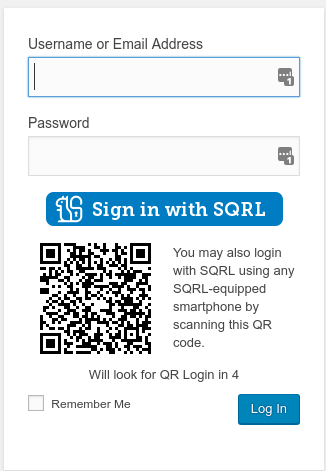
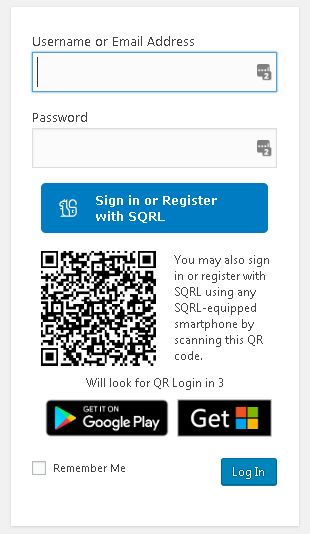
Preparing for release 0.6.3

diff --git a/style.css b/style.css
@@ -29,7 +29,7 @@
 .sqrl-button {
     display: flex;
     flex-direction: row;
-    justify-content: left;
+    justify-content: flex-start;
     align-items: center;
     background: #007CC3;
     border-radius: 5px;

diff --git a/sqrl-login.php b/sqrl-login.php
@@ -2,7 +2,7 @@
 /**
  * Plugin Name:       SQRL Login
  * Description:       Login and Register your users using SQRL
- * Version:           0.6.2
+ * Version:           0.6.3
  * Author:            Daniel Persson
  * Author URI:        http://danielpersson.dev
  * Text Domain:       sqrl
@@ -11,7 +11,7 @@
  * GitHub Plugin URI: http://github.com/kalaspuffar/wordpress-sqrl
  */
 
-class SQRLLogin{
+class SQRLLogin {
 
     const CURRENT_ID_MATCH = 1;
     const PREVIOUS_ID_MATCH = 2;
@@ -22,6 +22,12 @@ class SQRLLogin{
     const COMMAND_FAILED = 64;
     const CLIENT_FAILURE = 128;
     const BAD_ID_ASSOCIATION = 256;
+
+	/**
+	 * Change messages
+	 */
+    const MESSAGE_DISABLED = '1';
+    const MESSAGE_REMOVED = '2';
 
     /**
      * SQRLLogin constructor.
@@ -34,6 +40,8 @@ class SQRLLogin{
 
 		add_action( 'admin_post_sqrl_login', array($this, 'loginCallback'));
         add_action( 'admin_post_nopriv_sqrl_login', array($this, 'loginCallback'));
+		add_action( 'admin_post_sqrl_logout', array($this, 'logoutCallback'));
+        add_action( 'admin_post_nopriv_sqrl_logout', array($this, 'logoutCallback'));
         add_action( 'admin_post_sqrl_auth', array($this, 'apiCallback'));
         add_action( 'admin_post_nopriv_sqrl_auth', array($this, 'apiCallback'));
 
@@ -45,14 +53,14 @@ class SQRLLogin{
 
 		add_action( 'admin_post_sqrl_disassociate', array($this, 'disAssociateUser') );
 
-		add_action( 'login_enqueue_scripts', array($this, 'enqueue_scripts') );
-        add_action( 'admin_enqueue_scripts', array($this, 'enqueue_scripts') );
+		add_action( 'login_enqueue_scripts', array($this, 'enqueueScripts') );
+        add_action( 'admin_enqueue_scripts', array($this, 'enqueueScripts') );
 
-        add_action( 'wp_login', array($this, 'user_login'), 10, 2 );
-        add_filter( 'login_message', array($this, 'user_login_message') );
+        add_action( 'wp_login', array($this, 'userLogin'), 10, 2 );
+        add_filter( 'login_message', array($this, 'userLoginMessage') );
 	}
 
-	public function enqueue_scripts() {
+	public function enqueueScripts() {
 		wp_enqueue_style('style', plugin_dir_url(__FILE__).'style.css');
 	}
 
@@ -82,7 +90,7 @@ class SQRLLogin{
  								    <img src="<?php echo plugins_url( 'images/disconnect.svg', __FILE__ ) ?>"/>
                                 	<div><?php echo $disassociate_button ?></div>
                             	</a>
-							</div>								
+							</div>
 							<?php $this->addToLoginForm($user, true); ?>
 						</div>
 					</td>
@@ -170,9 +178,12 @@ class SQRLLogin{
 
 		if ($associated) {
             $button_label = __('Change your account', 'sqrl');
-            $qrcode_label = __('Scan QR code or click button to change account. Using your client you can disable, enable and remove the account.', 'sqrl');			
-        }
-        
+            $qrcode_label = __('Scan QR code or click button to change account. Using your client you can disable, enable and remove the account.', 'sqrl');
+        } else if ($user) {
+            $button_label = __('Associate with account', 'sqrl');
+            $qrcode_label = __('Scan QR code or click button to associate to this account.', 'sqrl');
+		}
+
 		$adminPostPath = parse_url(admin_url('admin-post.php'), PHP_URL_PATH);
 
 		$siteUrl = explode("://", get_site_url());
@@ -219,10 +230,10 @@ class SQRLLogin{
         ?>
 		<div class="sqrl-login-wrapper">
 			<div class="sqrl-login-row">
-                <a id="sqrl" 
-				   class="sqrl-button" 
-				   href="<?php echo $sqrlURL ?>" onclick="sqrlLinkClick(this);return true;" 
-				   encoded-sqrl-url="<?php echo $this->base64url_encode($sqrlURL) ?>" 
+                <a id="sqrl"
+				   class="sqrl-button"
+				   href="<?php echo $sqrlURL ?>" onclick="sqrlLinkClick(this);return true;"
+				   encoded-sqrl-url="<?php echo $this->base64url_encode($sqrlURL) ?>"
 				   tabindex="-1"
 				>
 				  <img src="<?php echo plugins_url( 'images/sqrl_outline.svg', __FILE__ ) ?>"/>
@@ -265,6 +276,22 @@ class SQRLLogin{
 		}
 	}
 
+    public function logoutCallback() {
+		$messageKey = sanitize_text_field($_GET['message']);
+		$this->logoutWithMessage($messageKey);
+    }
+
+	public function logoutWithMessage($messageKey) {
+		// Clear cookies, a.k.a log user out
+		wp_clear_auth_cookie();
+		// Build login URL and then redirect
+		$login_url = site_url( 'wp-login.php', 'login' );
+
+		$login_url = add_query_arg( 'message', $messageKey, $login_url );
+		wp_redirect( $login_url );
+		exit;
+	}
+
 	public function loginCallback() {
 
 		// Validate session value
@@ -290,15 +317,22 @@ class SQRLLogin{
 			'fields'       => 'id',
 		));
 
+		if (empty($wp_users)) {
+			$this->logoutWithMessage(self::MESSAGE_REMOVED);
+		}
+
 		delete_user_meta( $wp_users[0], 'sqrl_session');
 		wp_set_auth_cookie( $wp_users[0] );
 
-		if (!empty($_GET['existingUser'])) {
+		$disabled = get_user_meta( $wp_users[0], 'sqrl_disable_user', true);
+		if ($disabled) {
+			$this->logoutWithMessage(self::MESSAGE_DISABLED);
+		} else if (!empty($_GET['existingUser'])) {
 			header("Location: " . admin_url('profile.php'), true);
 		} else {
 			header("Location: " . get_site_url(), true);
-		}
-	}
+        }
+    }
 
 	/**
 	 * Return with information to the server about the error that occured.
@@ -572,7 +606,20 @@ class SQRLLogin{
             $retVal += self::CURRENT_ID_MATCH + self::ACCOUNT_DISABLED;
 
             $response[] = "suk=" . $this->getServerUnlockKey($client);
-            
+
+			/**
+			 * If Client Provided Session is enabled we need to respond with links for the client to follow in order
+			 * to securely login.
+			 */
+			if(strpos($client['opt'], 'cps') !== false) {
+				$response[] = "url=" . $this->getServerUrlWithoutPath() . $adminPostPath . '?action=sqrl_logout&message=' . self::MESSAGE_DISABLED;
+				$response[] = "can=" . get_site_url() . "?q=canceled";
+            } else {
+				/**
+				 * Add session data signaling to the reload.js script that a login has been successfully transacted.
+				 */
+				$this->addUserSession($client, $server);
+			}
         } else if($client['cmd'] == 'enable') {
             /*
              * Fetch user to be enabled.
@@ -594,16 +641,30 @@ class SQRLLogin{
                 $this->base64url_decode(sanitize_text_field($_POST["urs"])),
                 sanitize_text_field($_POST["client"]) . sanitize_text_field($_POST["server"]),
                 $this->base64url_decode($this->getVerifyUnlockKey($client))
-            );        
+            );
             if(!$result) {
                 error_log("Incorrect Unlock Request signature");
                 $this->exitWithErrorCode(self::COMMAND_FAILED, $server);
-            }            
+            }
 
             delete_user_meta( $user, 'sqrl_disable_user' );
 
             $retVal += self::CURRENT_ID_MATCH;
 
+			/**
+			 * Add session data signaling to the reload.js script that a login has been successfully transacted.
+   		     */
+            $this->addUserSession($client, $server);
+
+            /**
+             * If Client Provided Session is enabled we need to respond with links for the client to follow in order
+             * to securely login.
+             */
+            if(strpos($client['opt'], 'cps') !== false) {
+                $response[] = "url=" . $this->getServerUrlWithoutPath() . $adminPostPath .
+                    "?action=sqrl_login&nut=" . $nutSession[0] . '-' . $nutSession[1];
+                $response[] = "can=" . get_site_url() . "?q=canceled";
+            }
         } else if($client['cmd'] == 'remove') {
             /*
              * Fetch user to be removed.
@@ -616,23 +677,27 @@ class SQRLLogin{
                 error_log("User is missing, can't be removed");
                 $this->exitWithErrorCode(self::COMMAND_FAILED, $server);
             }
-			if (!$this->accountDisabled($client)) {
-                error_log("User is not disabled, can't be removed");
-                $this->exitWithErrorCode(self::COMMAND_FAILED, $server);
-            }
 
             $result = sodium_crypto_sign_verify_detached (
                 $this->base64url_decode(sanitize_text_field($_POST["urs"])),
                 sanitize_text_field($_POST["client"]) . sanitize_text_field($_POST["server"]),
                 $this->base64url_decode($this->getVerifyUnlockKey($client))
-            );        
+            );
             if(!$result) {
                 error_log("Incorrect Unlock Request signature");
                 $this->exitWithErrorCode(self::COMMAND_FAILED, $server);
-            } 			
-			
-			wp_delete_user( $user );
-		} else {
+            }
+
+			/**
+			 * If Client Provided Session is enabled we need to respond with links for the client to follow in order
+			 * to securely login.
+			 */
+			if(strpos($client['opt'], 'cps') !== false) {
+                $response[] = "url=" . $this->getServerUrlWithoutPath() . $adminPostPath . '?action=sqrl_logout&message=' . self::MESSAGE_REMOVED;
+				$response[] = "can=" . get_site_url() . "?q=canceled";
+            }
+            wp_delete_user( $user );
+        } else {
 			/**
 			 * If we have an unknown command, Not implemented yet we should print the client request and die.
 			 */
@@ -675,7 +740,7 @@ class SQRLLogin{
      *
      * Code inspired by https://github.com/jaredatch/Disable-Users
      */
-	public function user_login( $user_login, $user = null ) {
+	public function userLogin( $user_login, $user = null ) {
 		if ( !$user ) {
 			$user = get_user_by('login', $user_login);
 		}
@@ -692,7 +757,7 @@ class SQRLLogin{
 			wp_clear_auth_cookie();
 			// Build login URL and then redirect
 			$login_url = site_url( 'wp-login.php', 'login' );
-			$login_url = add_query_arg( 'disabled', '1', $login_url );
+			$login_url = add_query_arg( 'message', self::MESSAGE_DISABLED, $login_url );
 			wp_redirect( $login_url );
 			exit;
 		}
@@ -703,10 +768,12 @@ class SQRLLogin{
      *
      * Code inspired by https://github.com/jaredatch/Disable-Users
      */
-	public function user_login_message( $message ) {
-		// Show the error message if it seems to be a disabled user
-		if ( isset( $_GET['disabled'] ) && $_GET['disabled'] == 1 )
-			$message =  '<div id="login_error">' . apply_filters( 'ja_disable_users_notice', __( 'Account disabled', 'ja_disable_users' ) ) . '</div>';
+	public function userLoginMessage( $message ) {
+		if ( isset( $_GET['message'] ) && $_GET['message'] == self::MESSAGE_DISABLED )
+			$message =  '<div id="login_error">' . __( 'Account disabled', 'sqrl' ) . '</div>';
+        if ( isset( $_GET['message'] ) && $_GET['message'] == self::MESSAGE_REMOVED )
+			$message =  '<div id="login_error">' . __( 'Account removed', 'sqrl' ) . '</div>';
+
 		return $message;
 	}
 
@@ -832,7 +899,7 @@ class SQRLLogin{
 
 		return get_user_meta($wp_users[0], "suk", true);
     }
-    
+
 	/**
 	 * Gets the verify unlock code, saved for the user we can verify special
      * operations like enabling and removing accounts.
@@ -849,8 +916,8 @@ class SQRLLogin{
 		));
 
 		return get_user_meta($wp_users[0], "vuk", true);
-    }    
-    
+    }
+
 
 	/**
 	 * Checks if the current client requests identity is already associated with a user

diff --git a/README.md b/README.md
@@ -19,4 +19,5 @@ Special thanks to:
 
 
 ![Login screen](assets/screenshot-1.png)
-![Profile screen](assets/screenshot-2.png)
+![Profile screen without association](assets/screenshot-2.png)
+![Profile screen with association](assets/screenshot-3.png)
